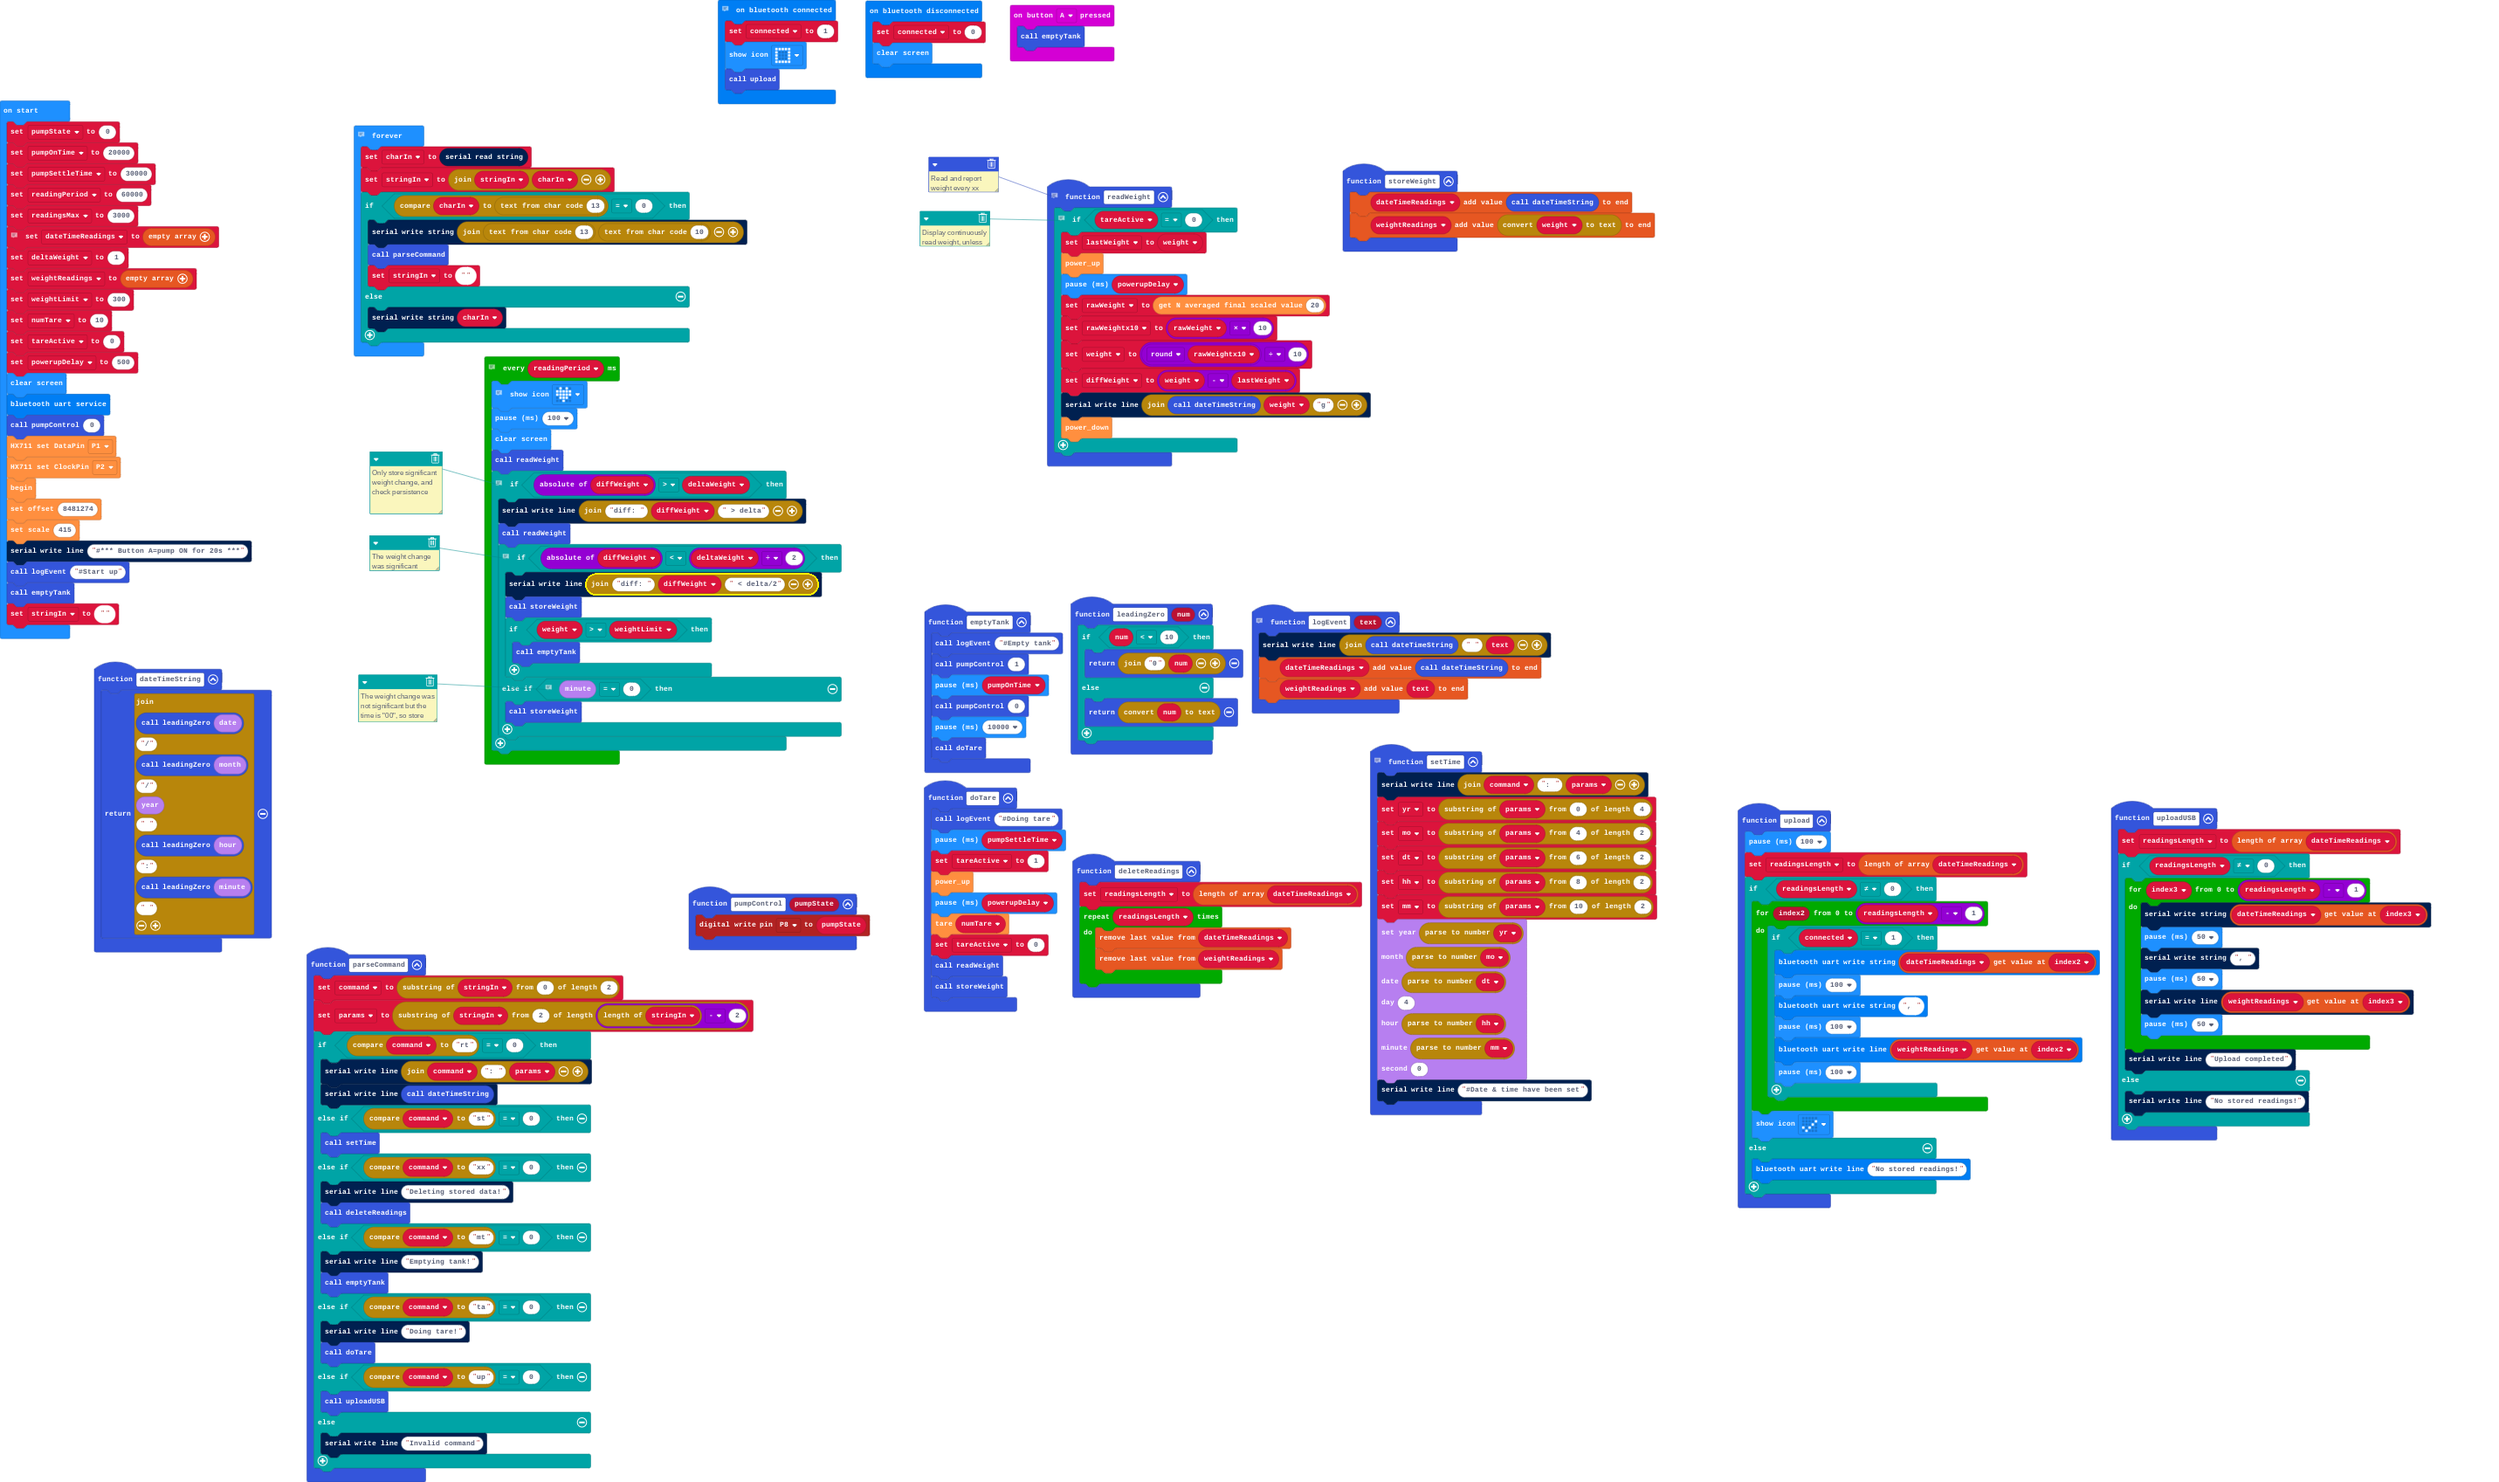
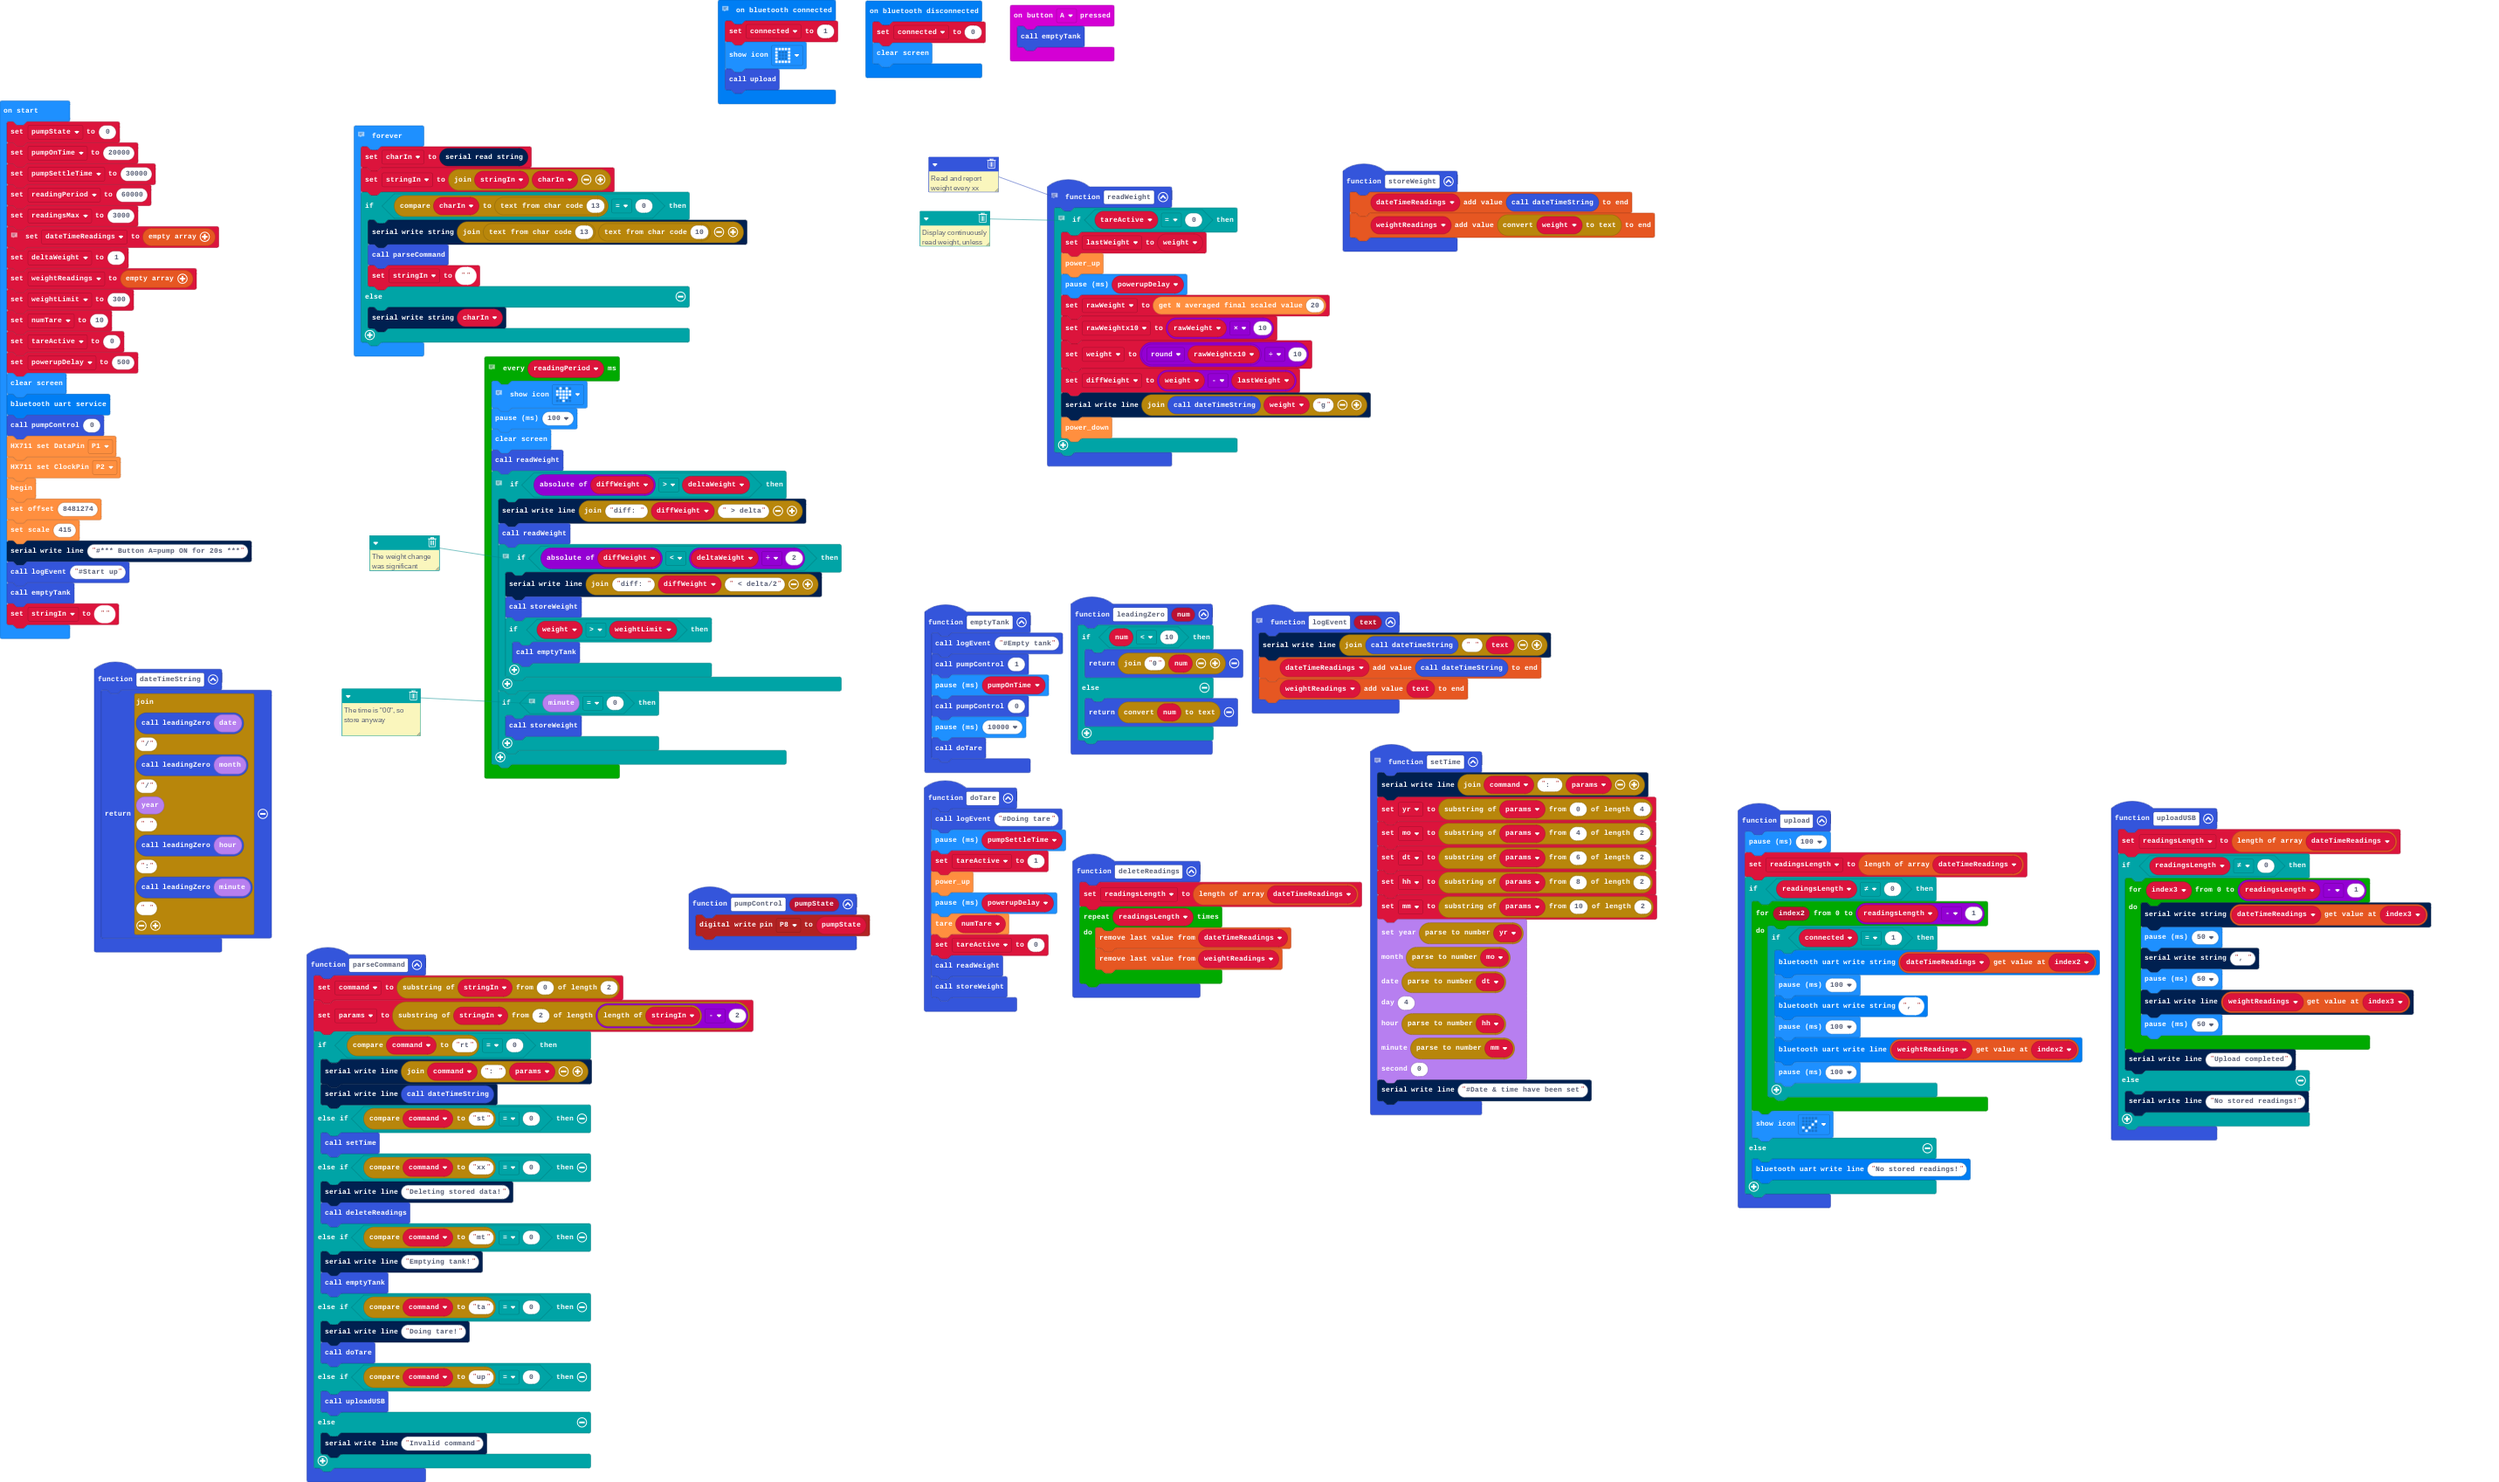
Moved the hourly storeWeight call

Changed region(s): [[0.1244, 0.4372, 0.3421, 0.5309], [0.1244, 0.2811, 0.1866, 0.3435]]

diff --git a/main.ts b/main.ts
@@ -224,14 +224,15 @@ loops.everyInterval(readingPeriod, function () {
         serial.writeLine("diff: " + diffWeight + " > delta")
         readWeight()
         // The weight change was significant
-        // The weight change was not significant but the time is "00", so store anyway
         if (Math.abs(diffWeight) < deltaWeight / 2) {
             serial.writeLine("diff: " + diffWeight + " < delta/2")
             storeWeight()
             if (weight > weightLimit) {
                 emptyTank()
             }
-        } else if (DS3231.minute() == 0) {
+        }
+        // The time is "00", so store anyway
+        if (DS3231.minute() == 0) {
             storeWeight()
         }
     }
